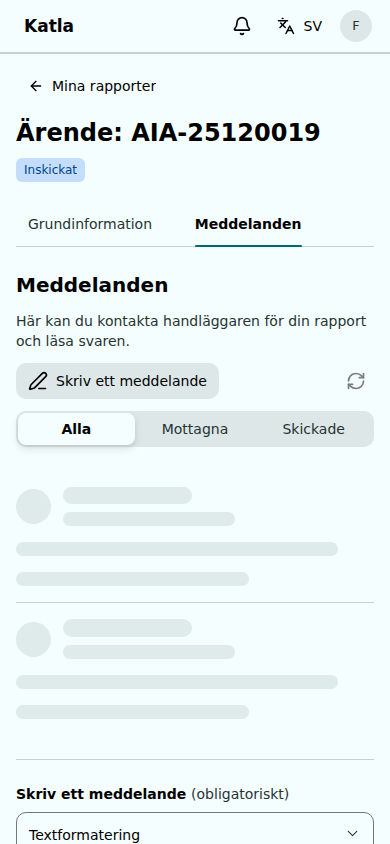
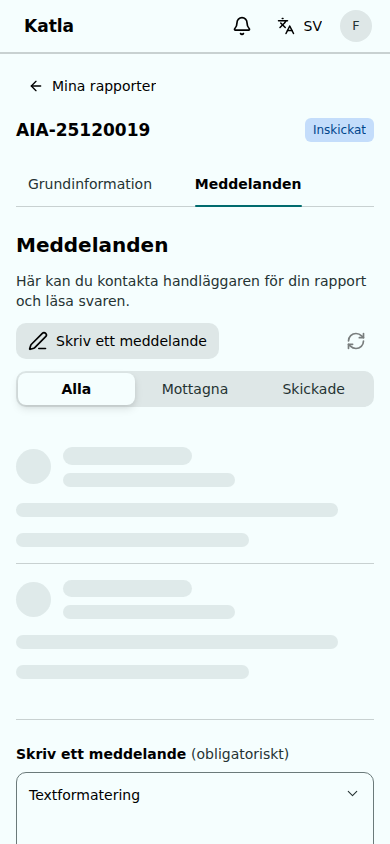
docs: record verified compact mobile case heading

diff --git a/docs/astryx-preview.html b/docs/astryx-preview.html
@@ -156,6 +156,13 @@
     </figure>
     <footer>
       <p>
+        Kompakt ärenderubrik med status på samma rad:
+        <a href="astryx-screenshots/case-identity-sv-320.png">Svenska · 320 px</a> ·
+        <a href="astryx-screenshots/case-identity-en-320.png">Engelska · 320 px</a> ·
+        <a href="astryx-screenshots/case-identity-sv-1536.png">Svenska · desktop</a> ·
+        <a href="astryx-screenshots/case-identity-en-1536.png">Engelska · desktop</a>
+      </p>
+      <p>
         Personprofiler med verksamhet och kontaktlänkar:
         <a href="astryx-screenshots/person-profile-1536.png">Desktop · 1536 px</a> ·
         <a href="astryx-screenshots/person-profile-431.png">Mobil · 431 px</a>

diff --git a/docs/astryx-evaluation.md b/docs/astryx-evaluation.md
@@ -13,7 +13,7 @@ Utvecklingen görs i isolerade git-worktrees för att hålla rättningarna åtsk
 | Appskal | En gemensam `AppHeader` med Astryx `TopNav`, inuti `AppShell`. Samma kontrollordning på mobil och desktop. Biblioteket äger huvudlandmärke och hoppa-till-innehåll-länk. Headern mäter cirka 54px i CI-bilderna; testgränsen är 72px på båda bredderna. |
 | Översikt | Statusfilter är synliga ovanför samlingen. Separata mobilheaders, helskärmsmeny, sidebar och viewport-context är borttagna. `useOverviewErrands` äger hämtningen för båda presentationerna och totalen kommer från samma listsvar. Sidomenyns separata räkneanrop och count-store är borttagna. |
 | Rapporter | Kompakta `ListItem`-rader på mobil, semantisk `Table` på desktop. En riktig länk per rapport. Desktop behåller sortering, sidstorlek, radhöjd och paginering; mobil behåller läs in fler. |
-| Ärende och registrering | Ärendenummer och status finns vid sidrubriken. `TabList` äger länkar mellan innehållsvyer. Registrering och utkast använder `LayoutFooter` utanför det skrollbara formuläret även på desktop. Åtgärdsraden tar egen plats och täcker inte sista fältet. Knappgrupperna äger radens kompakta padding; safe-area-regeln lägger bara till enhetens faktiska skyddszon, utan extra bottenmarginal på desktop. I CI-bilderna är raden 49px på desktop (tidigare 89px) och 53px på mobil (tidigare 85px), vid en knapprad utan extra safe area. Knapparnas storlek är oförändrad. Mobilguiden använder samma layoutmodell; nästa steg får rubrikfokus. |
+| Ärende och registrering | På mobil visas hela ärendenumret med mindre Astryx-typografi och status till höger på samma rad. `Text` renderar en riktig `h1` med det fullständiga översatta rubriknamnet för hjälpmedel. En radbrytande `Stack` ersätter de nästlade rubrikstaplarna och låter längre innehåll ta mer plats. `TabList` äger länkar mellan innehållsvyer. Registrering och utkast använder `LayoutFooter` utanför det skrollbara formuläret även på desktop. Åtgärdsraden tar egen plats och täcker inte sista fältet. Knappgrupperna äger radens kompakta padding; safe-area-regeln lägger bara till enhetens faktiska skyddszon, utan extra bottenmarginal på desktop. I CI-bilderna är raden 49px på desktop (tidigare 89px) och 53px på mobil (tidigare 85px), vid en knapprad utan extra safe area. Knapparnas storlek är oförändrad. Mobilguiden använder samma layoutmodell; nästa steg får rubrikfokus. |
 | Personer | `StakeholderRow` använder Astryx `ListItem`, `Avatar`, `Stack`, `Text` och `Link` för en kompakt personpresentation. Initialer, namn och en nedtonad identitetsrad grupperas över kontaktlänkar med ikoner. En gemensam avgränsad listyta håller ihop personerna. Borttagning har en synlig sekundärknapp med personens namn i det tillgängliga namnet; knappen radbryts vid smala innehållsbredder. Sökfältets bredd är stabil under inmatning; efter träff finns en textmärkt återställning. |
 | Notifieringar | Astryx `Dialog` och `Layout` skiljer fast rubrik/stängknapp från skrollande `ListItem`-rader. Beskrivning, ärendelänk, avsändare och tid visas kompakt utan separat upprepad händelserad. Befintlig sortering, kvittering och felhantering behålls. |
 | Meddelanden | Konversation före redigerare, med genväg till skrivfältet. Formatering öppnas vid behov med `Collapsible`. Uppdatering och formateringsmeny behåller oskickad text. Filbilagor och sändningslås finns kvar. |
@@ -54,23 +54,23 @@ Komponentbiblioteket är låst till 0.5.2. En uppgradering kräver regenererat t
 
 ## Verifiering
 
-Kod och bilder verifierade på `163007d6502c9faf08ab302e496aad2215def171`, den 7 september 2026:
+Kod och bilder verifierade på `13fafe8eee363c62e1b2020099cedf9902ec72aa`, den 7 september 2026:
 
 | Kontroll | Resultat |
 | --- | --- |
-| [Frontend CI](https://github.com/Sundsvallskommun/web-app-katla-sm/actions/runs/34145407811) | Lint, format, typkontroll och 329 enhetstester godkända. |
-| Chromium mot standalone-paketet | 99/99 scenarier godkända, inga omkörningar, cirka 2,0 minuter. |
+| [Frontend CI](https://github.com/Sundsvallskommun/web-app-katla-sm/actions/runs/34146715369) | Lint, format, typkontroll och 329 enhetstester godkända. |
+| Chromium mot standalone-paketet | 99/99 scenarier godkända, inga omkörningar, cirka 1,9 minuter. |
 | Axe | 16 vy-/temascanningar utan rapporterade regelbrott eller JavaScript-fel. Dessutom två riktade scanningar av låsta personprofiler utan rapporterade regelbrott. |
 | Backend CI | Lint, format, typkontroll och 167 tester godkända; 4 befintliga tester överhoppade. |
-| [RHEL 8.10](https://github.com/Sundsvallskommun/web-app-katla-sm/actions/runs/34145407915) | Frontend- och backend-byggen samt standalone-bildbehandling godkända. |
+| [RHEL 8.10](https://github.com/Sundsvallskommun/web-app-katla-sm/actions/runs/34146715294) | Frontend- och backend-byggen samt standalone-bildbehandling godkända. |
 
-Bildgalleriets 34 bilder av vyer, teman, laddning, formulär och notifieringar kommer från samma kodcommit och CI-körning. `incomplete` omfattar `aria-valid-attr-value` i 16 scanningar och `color-contrast` i 6; de räknas inte som godkända kontroller. Det gäller bland annat stängda popup-kontrollers referenser och kontrast som motorn inte kunde avgöra. Se fullständiga noder i audit-filen.
+Bildgalleriets 38 bilder av vyer, teman, laddning, formulär och notifieringar kommer från samma kodcommit och CI-körning. `incomplete` omfattar `aria-valid-attr-value` i 16 scanningar och `color-contrast` i 6; de räknas inte som godkända kontroller. Det gäller bland annat stängda popup-kontrollers referenser och kontrast som motorn inte kunde avgöra. Se fullständiga noder i audit-filen.
 
 Lokal validering denna omgång omfattar enbart Astryx CLI, formatering, lint och minnesbegränsad typkontroll för app, unit och E2E. Inga lokala appservrar, byggjobb eller fulla testsuiter har startats efter minnesincidenten.
 
 CI bygger med Webpack och kör Chromium mot det färdiga standalone-paketet med en Playwright-worker. API-fixtures används; testerna skickar inga riktiga rapporter eller meddelanden. Bland kontrakten finns:
 
-- Svenska/engelska vid 320px, mobil/desktop-byte och nåbara kontroller vid 800/1024px.
+- Svenska/engelska vid 320px, mobil/desktop-byte och nåbara kontroller vid 800/1024px. Mobilens ärendenummer och status ligger på samma kompakta rad; huvudrubrikens semantik bevaras.
 - Skeleton före svar, inga falska rapporter i laddning, och öppen meny som överlever färdigladdat ärende.
 - Klientnavigation, en länk per rad, markering av text utan oavsiktlig navigation och synliga filter.
 - Payload, schema-id:n, validering/felfokus, språkbyte och skydd mot sena ärendesvar.

diff --git a/docs/astryx-mobile-ux.md b/docs/astryx-mobile-ux.md
@@ -7,6 +7,7 @@ The first migration replaced controls but kept separate mobile headers, a fullsc
 | Decision | Reason and tradeoff | Canonical owner |
 | --- | --- | --- |
 | One app header at every width | Identity, notifications, language and account controls stay in the same place. User details move into the account menu; case identity and status move beside the case heading. | `AppHeader`, composed inside Astryx `AppShell` |
+| Compact mobile case identity | A smaller, semibold Astryx `Text` renders the native `h1`, with the status token to its right. Mobile shows the full case number and keeps the localized “Case:” prefix in the accessible heading name. One wrapping `Stack` replaces the nested heading stacks; long content can wrap rather than truncate. Desktop keeps its existing heading size and visible prefix. No new typography CSS or breakpoint state is introduced. | `ErrandRouteContent`, existing `useMediaQuery` and `StatusLabel` |
 | Visible status filters, no overview sidebar | The destinations are filtered views of one collection. A segmented control exposes them on phones and removes two navigation implementations. Desktop users retain sorting, density and pagination. | `ErrandStatusFilter` uses the existing status/filter stores |
 | One overview fetch owner | Resizing changes presentation and paging mode without mounting a second shell or independent query owner. Switching between accumulated mobile results and desktop pages resets the query generation. | Overview page and `useOverviewErrands`; count comes from the same page response |
 | Mobile records are list rows | Report type leads, then number, status and date. Astryx `ListItem` delegates row clicks to the real Next link, preserving native navigation and one keyboard stop. | `ErrandListItem` |
